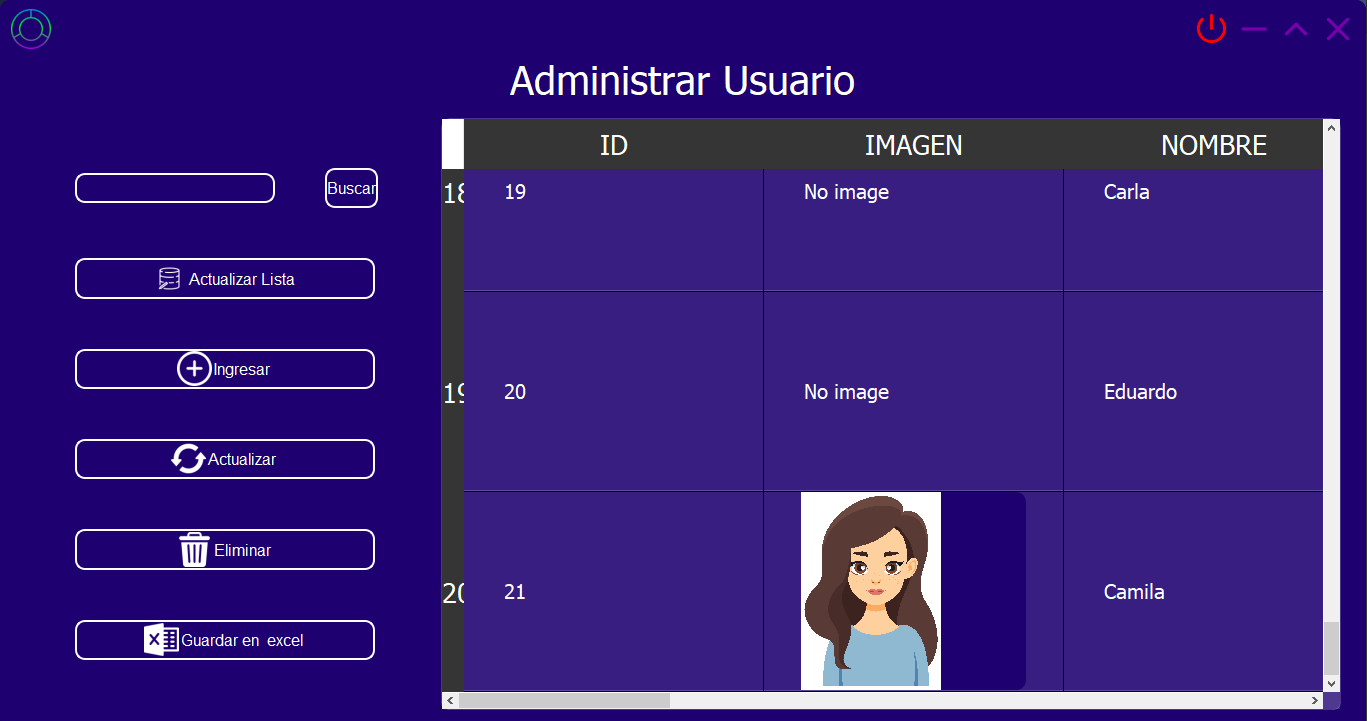
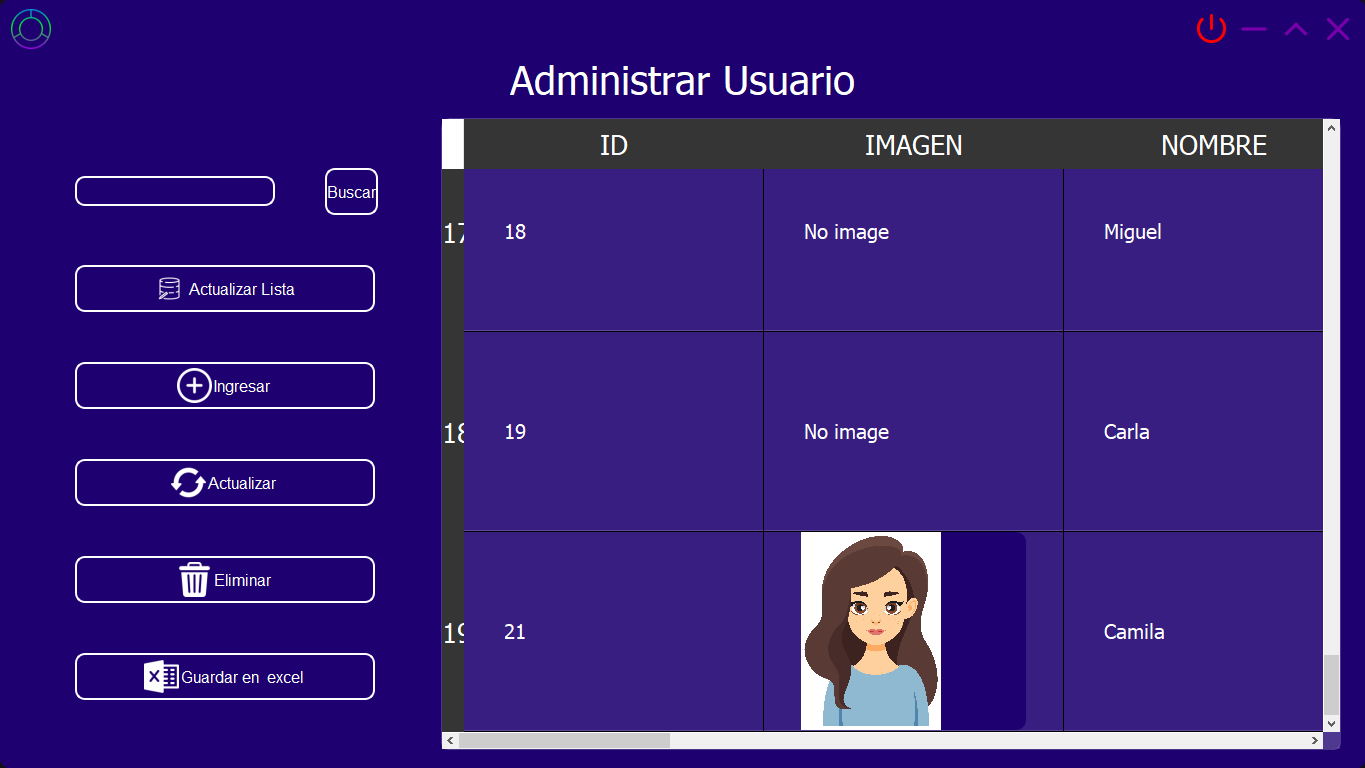
update

diff --git a/main__.py b/main__.py
@@ -3,60 +3,11 @@ from PIL import Image
 # Lista de imágenes (asegúrate de que sean del mismo tamaño)
 imagenes = [
     "img/img-1.png",
-    "img/img-1.png",
-    "img/img-1.png",
-    "img/img-1.png",
-    "img/img-1.png",
-    "img/img-2.png",
-    "img/img-2.png",
-    "img/img-2.png",
-    "img/img-2.png",
     "img/img-2.png",
     "img/img-3.png",
-    "img/img-3.png",
-    "img/img-3.png",
-    "img/img-3.png",
-    "img/img-3.png",
-    "img/img-4.png",
-    "img/img-4.png",
-    "img/img-4.png",
-    "img/img-4.png",
     "img/img-4.png",
     "img/img-5.png",
-    "img/img-5.png",
-    "img/img-5.png",
-    "img/img-5.png",
-    "img/img-5.png",
     "img/img-6.png",
-    "img/img-6.png",
-    "img/img-6.png",
-    "img/img-6.png",
-    "img/img-6.png",
-    "img/img-7.png",
-    "img/img-7.png",
-    "img/img-7.png",
-    "img/img-7.png",
-    "img/img-7.png",
-    "img/img-8.png",
-    "img/img-8.png",
-    "img/img-8.png",
-    "img/img-8.png",
-    "img/img-8.png",
-    "img/img-9.png",
-    "img/img-9.png",
-    "img/img-9.png",
-    "img/img-9.png",
-    "img/img-9.png",
-    "img/img-10.png",
-    "img/img-10.png",
-    "img/img-10.png",
-    "img/img-10.png",
-    "img/img-10.png",
-    "img/img-11.png",
-    "img/img-11.png",
-    "img/img-11.png",
-    "img/img-11.png",
-    "img/img-11.png",
 ]
 
 # Abrir las imágenes
@@ -64,9 +15,9 @@ frames = [Image.open(imagen) for imagen in imagenes]
 
 # Crear el GIF
 frames[0].save(
-    "theme-update-user-admin.gif",
+    "theme-delete-user-admin.gif",
     save_all=True,
     append_images=frames[1:],
-    duration=200,  # Duración de cada cuadro en milisegundos
+    duration=500,  # Duración de cada cuadro en milisegundos
     loop=0,  # Número de loops (0 significa infinito)
 )
